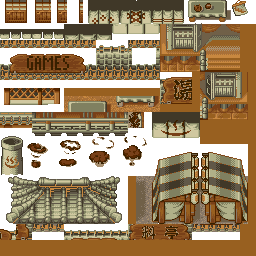
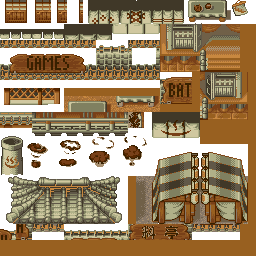
Translate bath roof plaques with five cold placement checks

Changed region(s): [[0.6562, 0.3125, 0.75, 0.4062], [0.0625, 0.875, 0.0938, 0.9375], [0.0, 0.9062, 0.0312, 0.9375]]

diff --git a/tools/debug/signs_tour.py b/tools/debug/signs_tour.py
@@ -22,6 +22,11 @@ import gen_scenes  # noqa: E402
 from field_signs import check  # noqa: E402
 
 CASES = {
+    'bath_board180': (180, 18, 16, 0, 'GV16000D.BIN:3'),
+    'bath_board320a': (320, 16, 14, 0, 'GV36000D.BIN:0'),
+    'bath_board320b': (320, 15, 47, 0, 'GV36000D.BIN:0'),
+    'bath_board321a': (321, 16, 14, 0, 'GV36000D.BIN:0'),
+    'bath_board321b': (321, 15, 47, 0, 'GV36000D.BIN:0'),
     'flowers99': (99, 20, 40, 0, 'GV06000D.BIN:0'),
     'flowers100': (100, 20, 40, 0, 'GV06000D.BIN:0'),
     'flowers237': (237, 70, 29, 0, 'GV22000D.BIN:0'),
@@ -146,6 +151,7 @@ CASES = {
 # These atlases also retain another Inn tile beneath/outside the visible
 # map layer. These routes approve only the displayed layer's complete label.
 CASE_LABELS = {'inn80': ('inn2',), 'inn163': ('inn2',), 'inn99': ('inn',),
+               **{name: ('bath',) for name in CASES if name.startswith('bath_board')},
                'inn100': ('inn',), 'inn295': ('inn',), 'inn335': ('inn2',),
                'equipment45': ('weapons', 'armor', 'shoes'),
                'flowers99': ('flowers',), 'flowers100': ('flowers',),
@@ -182,7 +188,7 @@ def run(name, args, initializers):
             command += ['--script', str(ROOT / 'tools/debug/field_walk.lua'), '--var', 'HOLD=-1',
                         '--var', f'WALK_MAP={m}', '--var', "WALK={{'-',360}}",
                         '--var', 'WALK_VRAM=true', '--var', 'WALK_EVERY=6']
-        elif name.startswith('bath'):
+        elif name in ('bath189', 'bath332', 'bath333'):
             command += ['--script', str(ROOT / 'tools/debug/field_walk.lua'), '--var', 'HOLD=-1',
                         '--var', f'WALK_MAP={m}', '--var', "WALK={{'up',160}}"]
         else:

diff --git a/tests/test_signs.py b/tests/test_signs.py
@@ -117,3 +117,25 @@ def test_shop_names_use_complete_strokes_in_the_inserted_palette():
                               and mask.getpixel((x - left, y - top)))
                     assert (colour == 12) == bool(letter), (key, x, y)
                     assert colour != 13, (key, x, y)
+
+
+def test_bath_board_split_keeps_the_complete_word_and_no_old_strokes():
+    # Map180 stores the last tile column away from the first two. Compare
+    # inserted indices in assembled space, including the final H's strokes.
+    mask = gen_gfx.mask('Bath', 7, {'pixel': 'credits7.txt', 'tight': True})
+    mask = mask.resize((mask.width * 2, 14), Image.Resampling.NEAREST)
+    boards = []
+    for key, pieces in gfx_signs.BATH_SIGNS.items():
+        raw = gen_gfx.redrawn(key)
+        indices = Image.frombytes('L', (256, 256), bytes(gfx.indices(raw)))
+        board = Image.new('L', (48, 32))
+        for u, v, w, h, x, y in pieces:
+            board.paste(indices.crop((u, v, u + w, v + h)), (x, y))
+        boards.append(board)
+        for y in range(8, 28):
+            for x in range(9, 39):
+                letter = 11 <= y < 25 and bool(mask.getpixel((x - 9, y - 11)))
+                assert (board.getpixel((x, y)) == 12) == letter, (key, x, y)
+                assert board.getpixel((x, y)) != 13, (key, x, y)
+    # The native roof/edge pixels differ; only the lettering panels agree.
+    assert boards[0].crop((9, 8, 39, 28)).tobytes() == boards[1].crop((9, 8, 39, 28)).tobytes()

diff --git a/tools/debug/field_label_plan.py b/tools/debug/field_label_plan.py
@@ -12,6 +12,7 @@ import sys
 sys.path.insert(0, str(Path(__file__).resolve().parents[1]))
 import arc
 import gfx
+import gfx_field
 from field_consumers import inspect
 
 
@@ -36,6 +37,15 @@ def main():
              if all((xx, yy) not in used and pixels[yy * 256 + xx] == 0
                     for yy in range(y, y + 16) for xx in range(x, x + 48))]
     print('unreferenced transparent 48x16 slots:', slots)
+    allocated = set()
+    if args.key in gfx_field.PLANS:
+        allocated = {(x, y) for u, v in gfx_field.slots(args.key)
+                     for y in range(v, v + 16) for x in range(u, u + 16)}
+    remaining = [(u, v) for v in range(0, 241, 16) for u in range(0, 241, 16)
+                 if all((x, y) not in used and (x, y) not in allocated
+                        and pixels[y * 256 + x] == 0
+                        for y in range(v, v + 16) for x in range(u, u + 16))]
+    print('unreferenced transparent aligned 16x16 slots excluding English allocations:', remaining)
     for companion in sorted({owner[1] for owner in owners}):
         entries = arc.entries((gfx.TREE / companion).read_bytes())
         for entry, (_, table) in enumerate(entries):

diff --git a/tools/gfx_signs.py b/tools/gfx_signs.py
@@ -169,6 +169,16 @@ for _label, _u, _word in EQUIPMENT_SIGNS:
         (_label, [(_u, 80, 32, 16, 0, 0)], (1, 1, 31, 14), [_word], None,
          'wide_plaque' if _label == 'weapons' else 'equipment'))
 
+# The bath-town plaque's right edge is stored separately below the main
+# strip. Both layouts assemble the same 48x32 board; keep its edge and posts.
+BATH_SIGNS = {
+    'GV36000D.BIN:0': [(96, 64, 48, 32, 0, 0)],
+    'GV16000D.BIN:3': [(160, 72, 32, 32, 0, 0),
+                      (0, 224, 16, 16, 32, 0), (16, 224, 16, 16, 32, 16)],
+}
+for _key, _pieces in BATH_SIGNS.items():
+    SIGNS[_key].append(('bath', _pieces, (9, 8, 39, 28), ['Bath'], None, 'engraved'))
+
 for _key, _plan in gfx_field.PLANS.items():
     SIGNS.setdefault(_key, []).append(
         (_plan['label'], gfx_field.pieces(_key), (0, 0, 48, 16), [_plan['word']], None, 'relocated'))

diff --git a/tests/test_gfx.py b/tests/test_gfx.py
@@ -124,6 +124,10 @@ def test_wood_games_signs_preserve_every_pixel_outside_lettering():
         # cream in the editing CLUT but becomes illegible blue/purple.
         assert lettering.count(12) >= 200
         assert set(lettering) <= set(range(7, 13))  # no roof pixels borrowed into the narrow board
+        for _, other_pieces, (a, b, c, d), *_ in signs[1:]:
+            allowed.update((u + dx, v + dy) for u, v, w, h, ax, ay in other_pieces
+                           for dy in range(h) for dx in range(w)
+                           if a <= ax + dx < c and b <= ay + dy < d)
         for y in range(before.height):
             for x in range(before.width):
                 if (x, y) not in allowed:

diff --git a/docs/re/bath-boards-qa.md b/docs/re/bath-boards-qa.md
@@ -1,0 +1,101 @@
+# Bath roof boards
+
+The large 湯 roof boards now read **Bath** in five cold original/English
+placements: map180 and the northern/southern bathhouses in maps320/321.
+A fresh read-only D10 pass accepts **10/10** context/detail sheets. This
+resolves the large bath-plaque finding in the older Tea review, without
+rewriting historical verdicts. Phase 8 remains incomplete.
+
+## Sources and preservation
+
+`tools/gfx_signs.py` describes two 48x32 assemblies:
+
+| Atlas | Source pieces (x, y, width, height -> assembled x, y) | Native front-grid placements |
+|---|---|---|
+| GV36000D:0 | 96,64,48,32 -> 0,0 | maps320/321: (15..17,9..10), (14..16,42..43) |
+| GV16000D:3 | 160,72,32,32 -> 0,0; 0,224,16,16 -> 32,0; 16,224,16,16 -> 32,16 | map180: (17..19,11..12) |
+
+GV16001D table 2 records 1129-1131/1161-1163 assemble the latter board;
+the right column is stored far below the main fragment. GV36001D tables
+2/3 use records 74-76/106-108. Runtime palettes are recorded in each
+tour's `coverage.tsv`. Whole-image duplicate generation also changes
+M220D:3; its natural minigame placement remains unproved.
+
+Only assembled rectangle (9,8)-(39,28) changes. The renderer removes both
+engraved ink and highlights using nearby native wood, then draws the full
+30x14 BATH mask with the existing MIT credits7 font at scale 2. No grid,
+sprite-record, code, palette, board edge, mounting-post or roof changes.
+The two boards' original outer pixels differ slightly and stay preserved.
+
+The regression checks the inserted indices for every English stroke and
+absence of old highlights, including the split final H. Existing whole-atlas
+preservation checks protect every pixel outside all declared lettering
+rectangles. An initial assertion that both complete boards were identical
+failed because their original right-edge art differs; the final comparison
+correctly covers their shared lettering panel, while the separate preservation
+test still guards each native edge.
+
+## Cold evidence and fresh read-only verdicts
+
+```
+python -X utf8 tools/gen_gfx.py --only GV36000D.BIN:0 GV16000D.BIN:3
+python -X utf8 tools/build.py --out build/bath_boards8.bin
+python -X utf8 tools/debug/signs_tour.py --cue build/bath_boards8.cue --out work/qa/bath_boards8_en --only bath_board180 bath_board320a bath_board320b bath_board321a bath_board321b
+python -X utf8 tools/debug/signs_tour.py --original --out work/qa/bath_boards8_jp --only bath_board180 bath_board320a bath_board320b bath_board321a bath_board321b
+python -X utf8 tools/debug/field_signs_review.py work/qa/bath_boards8_en work/qa/bath_boards8_jp --out work/qa/bath_boards8_review
+python -X utf8 "$(python tools/skill.py)/scripts/qa_gate.py" check work/qa/bath_boards8_review/manifest.tsv work/qa/bath_boards8_review/verdicts
+```
+
+All five routes run the native map initializer, with no story-flag override.
+Both discs pass **5/5** complete-lettering matches. Review inspected all ten
+sheets after implementation, at full context and six-times lettering zoom.
+The final H is intact across the split tile boundary, old engraving is gone,
+and frames/posts/scenery are preserved. Maps320 and321 produce identical
+accepted pixels but were separate cold runs. Exact hashes and scoped verdicts
+are in `bath-boards-verdicts.tsv`; the gate has zero missing/stale/non-ok
+verdicts. These are sign verdicts, not complete event or chapter verdicts.
+
+The English textlog has **0 Japanese lines in 5 logs**; graphical symbols
+and unvisited dialogue are outside that check. Cold smoke at
+`work/qa/bath_boards8_smoke` passes. Build size **182,454,048 bytes**, build
+time **2026-11-01 14:45:11 UTC**, SHA-1
+`161e5adff5fae2c79cd691b2a86cc9cfbcd59b28`.
+
+The repository check passes **121 tests / lint 0**; the built-disc verifier
+reports **398 changed files / 0 errors**. A default main rebuild has the same
+SHA-1 (built **2026-11-01 14:50:28 UTC**) and passes its own cold smoke at
+`work/qa/bath_boards8_main_smoke`.
+
+## Remaining field-sign leads
+
+The complete large-glyph mask search at GV36000D:0 (109,72)-(130,93)
+finds only that intact copy; the fragmented bath-town copy is explicitly
+covered by the assembly above. The smaller ゆ glyph at GV16000D:0
+(1,81)-(14,94) has eight exact occurrences: GF10000D:0/GF11000D:0/
+GV00000D:0/GV31000D:0 at (209,81), GV04000D:0/GV04002D:0 at (1,153),
+and GV16000D:0/M220D:0 at (1,81). Those small copies are unchanged.
+Maps80/81's two matching static records have no grid uses; map180 has an
+underlying rear-grid use at (18,12), behind the large board. These results
+do not rule out native-code or later-story consumers.
+
+Medicine has a concrete next seam. In both GV12001D and GV12003D table 2,
+record 74 at atlas (64,80) occupies front grid cell (98,20); its neighbors
+99 and101 match those used by the existing Items widening. All three use
+CLUT31488/page5. The full word Medicine is 30 pixels with credits7, but the
+native center is 16 pixels. After the existing Items allocation, the sunny
+atlas has only two aligned unreferenced transparent 16x16 candidates:
+(0,32) and (64,48). The snowy atlas additionally has (160,96). The current
+widening needs three isolated cells, so it cannot simply be copied unchanged
+to both variants; do not overwrite the Items slots. `field_label_plan.py`
+now prints these remaining aligned slots as well as its older 48x16 search:
+
+```
+python -X utf8 tools/debug/field_label_plan.py GV12000D.BIN:0 64 80
+python -X utf8 tools/debug/field_label_plan.py GV12002D.BIN:0 64 80
+```
+
+Possible next work is a verified two-tile layout or a broader atlas allocation
+strategy. This is an implementation task, not an owner-only decision.
+Other sign/emblem classification, remaining graphics/HUD outcomes and the
+full interaction/story tour remain open in `docs/status.md`. No release or
+repository visibility change was performed.

diff --git a/docs/status.md b/docs/status.md
@@ -4,6 +4,20 @@ Updated at the end of every session. Keep it to what the next session needs; his
 
 - **Phase:** **8 in progress** (QA in the emulator), then 9 (release).
 - **Done (phase 8 so far, 2026-11-02):**
+  - Large bath plaques now read **Bath** in **five cold placements on both discs**: map180 and both
+    bathhouses in maps320/321. `gfx_signs.py` reassembles map180's split right column; all board edges,
+    mounting posts, palettes and layouts are preserved. M220D:3's duplicate is regenerated, but its
+    natural minigame placement remains unproved. Fresh D10 review accepts **10/10** scoped sheets;
+    `bath-boards-qa.md` records hashes, sources and limits.
+  - Current validation: **121 tests / lint 0**, verifier **398 changed files / 0 errors**, **0 Japanese
+    lines in 5 logs** (graphics excluded); cold main smoke `bath_boards8_main_smoke` passed. Main disc:
+    **182,454,048 bytes**, **2026-11-01 14:50:28 UTC**, SHA-1
+    **161e5adff5fae2c79cd691b2a86cc9cfbcd59b28** (identical to `build/bath_boards8.bin`).
+    **Phase 8 cannot advance: remaining graphics, phase-wide visual and story/NPC gates are still open.**
+  - Medicine's sunny/snowy map143/144 plaques use table record74 at front cell (98,20), CLUT31488/page5.
+    The full 30-pixel word needs widening. The sunny atlas has only two remaining aligned transparent
+    16x16 slots after Items; snowy has three. `field_label_plan.py` now excludes existing English allocations
+    when listing candidates. A different layout/allocation is needed for sunny; this needs no owner ruling.
   - Narrow plaques now show full **Flowers / Items** in **six cold contexts on both discs**:
     maps99/100, 143/144 and 237/238. `gfx_field.py` uses isolated atlas tiles and hash-checked
     front-grid/record edits; source tiles, rear grids, native palettes and attributes are preserved.
@@ -446,7 +460,9 @@ Updated at the end of every session. Keep it to what the next session needs; his
     views exposed Games boards in maps80/81 and 263 plus Produce/Fish Shop boards, now covered by
     `shop-boards-qa.md` (24 cold placements). Map45's equipment plaques now have cold proof
     (`equipment-signs-qa.md`); Flowers/Items now have six accepted widened placements
-    (`narrow-plaques-qa.md`). Other equipment sprite forms, medicine and bath plaques remain.
+    (`narrow-plaques-qa.md`). Large Bath boards now have five accepted cold placements (`bath-boards-qa.md`);
+    small underlying/unplaced ゆ copies and other equipment/medicine sprite forms remain.
+    Medicine at maps143/144 has the exact tile/slot lead above; preserve the existing Items allocation.
     GV01000D:0 medicine records 102/103 have no default grid placement in map45; locate their native consumer.
     Follow the five unresolved issues in `shop-boards-verdicts.tsv` and the unresolved portions of the 18 older
     whole-scene issues in `tea-bank-signs-verdicts.tsv`. Historical verdicts are not retroactively changed.

diff --git a/docs/re/README.md b/docs/re/README.md
@@ -46,6 +46,7 @@ Addresses are for the dump in `rom.sha1` unless a note says otherwise.
 | [shop-boards-qa.md](shop-boards-qa.md) | Seven more Games atlases, Produce and Fish Shop boards; two explicit story-flag fixtures | 24 cold sign pairs; all details pass, six wider shop-scene issues remain |
 | [equipment-signs-qa.md](equipment-signs-qa.md) | Full Weapons/Armor/Shoes plaques and the original narrow-plaque investigation | Map45 cold proof; 6 scoped sheets accepted |
 | [narrow-plaques-qa.md](narrow-plaques-qa.md) | Flowers/Items tile relocation, checked front grids and mixed-palette rain oracle | Six original/English cold placements; 12 scoped sheets accepted; phase 8 remains open |
+| [bath-boards-qa.md](bath-boards-qa.md) | Large Bath roof plaques, split tile assembly and Medicine allocation leads | Five original/English cold placements; 10 scoped sheets accepted; phase 8 remains open |
 | [small-props-qa.md](small-props-qa.md) | Sushi prices, private-bath placards and swimming victory flag; erasure, palette and texture-seam fixes | Scoped cold routes and complete-label checks; broader phase 8 remains open |
 | [map-initializers.md](map-initializers.md) | Wrong world-map initializer in every map warp; real per-map calls and input timing fix | All nine excluded maps recovered; phase-wide QA remains open |
 | [character-intro-qa.md](character-intro-qa.md) | Five full attract-mode names, split Yashahime layout and untouched cold title sequence | 5/5 complete character/name pairs on both discs, 5 scoped visual sheets; fan/costume marks remain |
